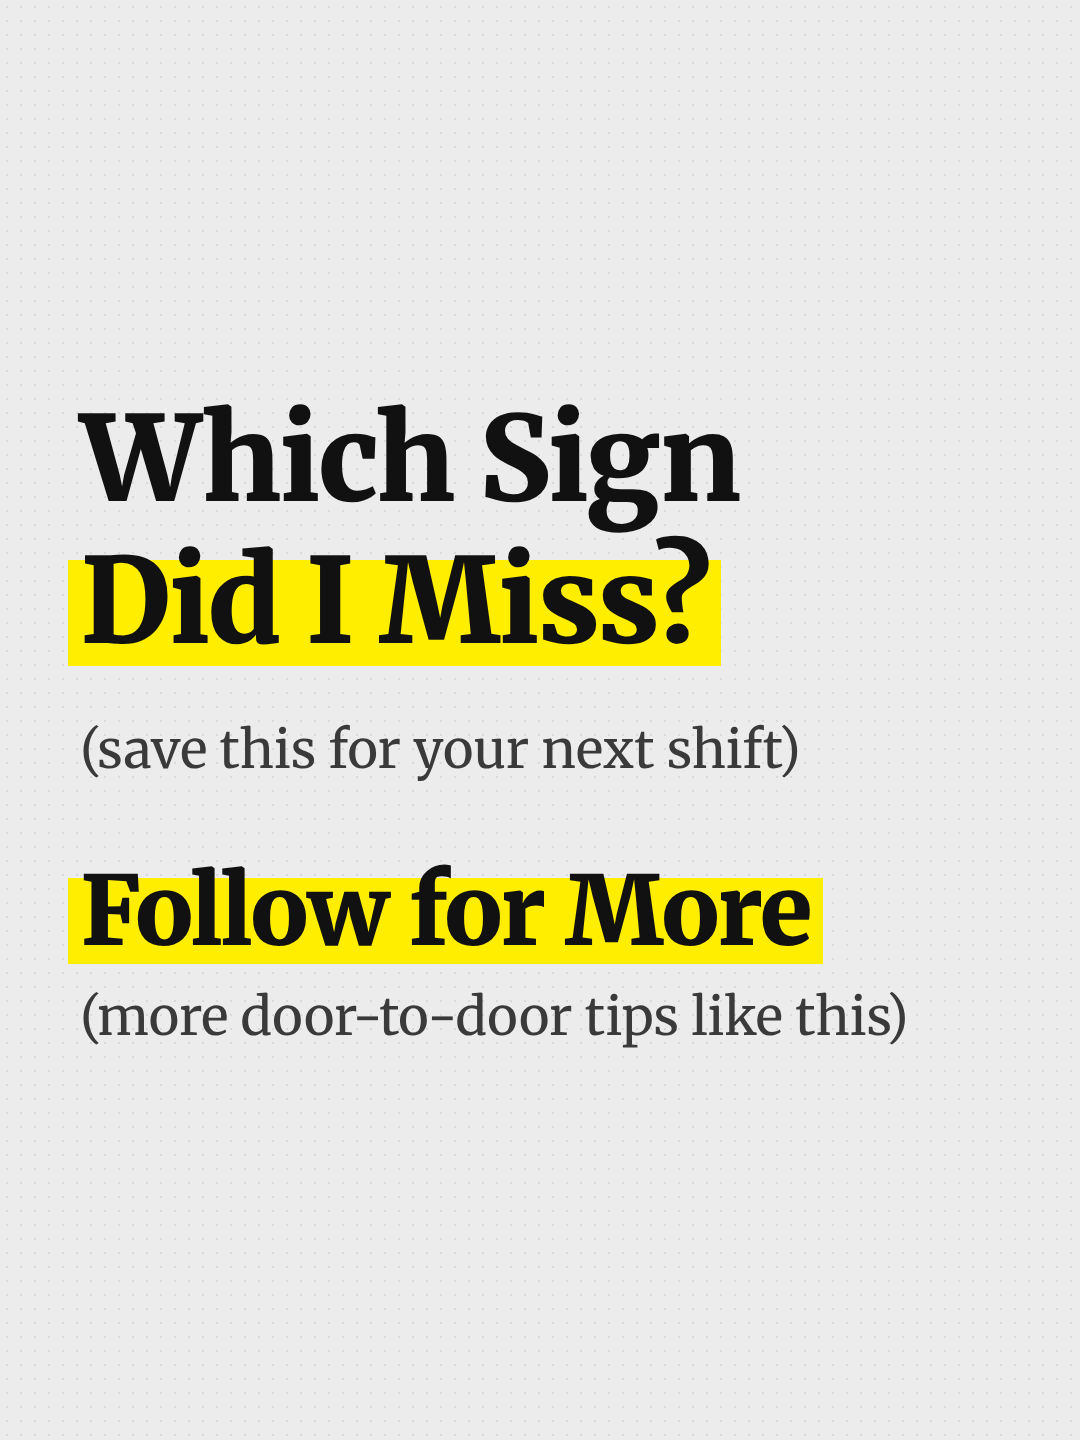
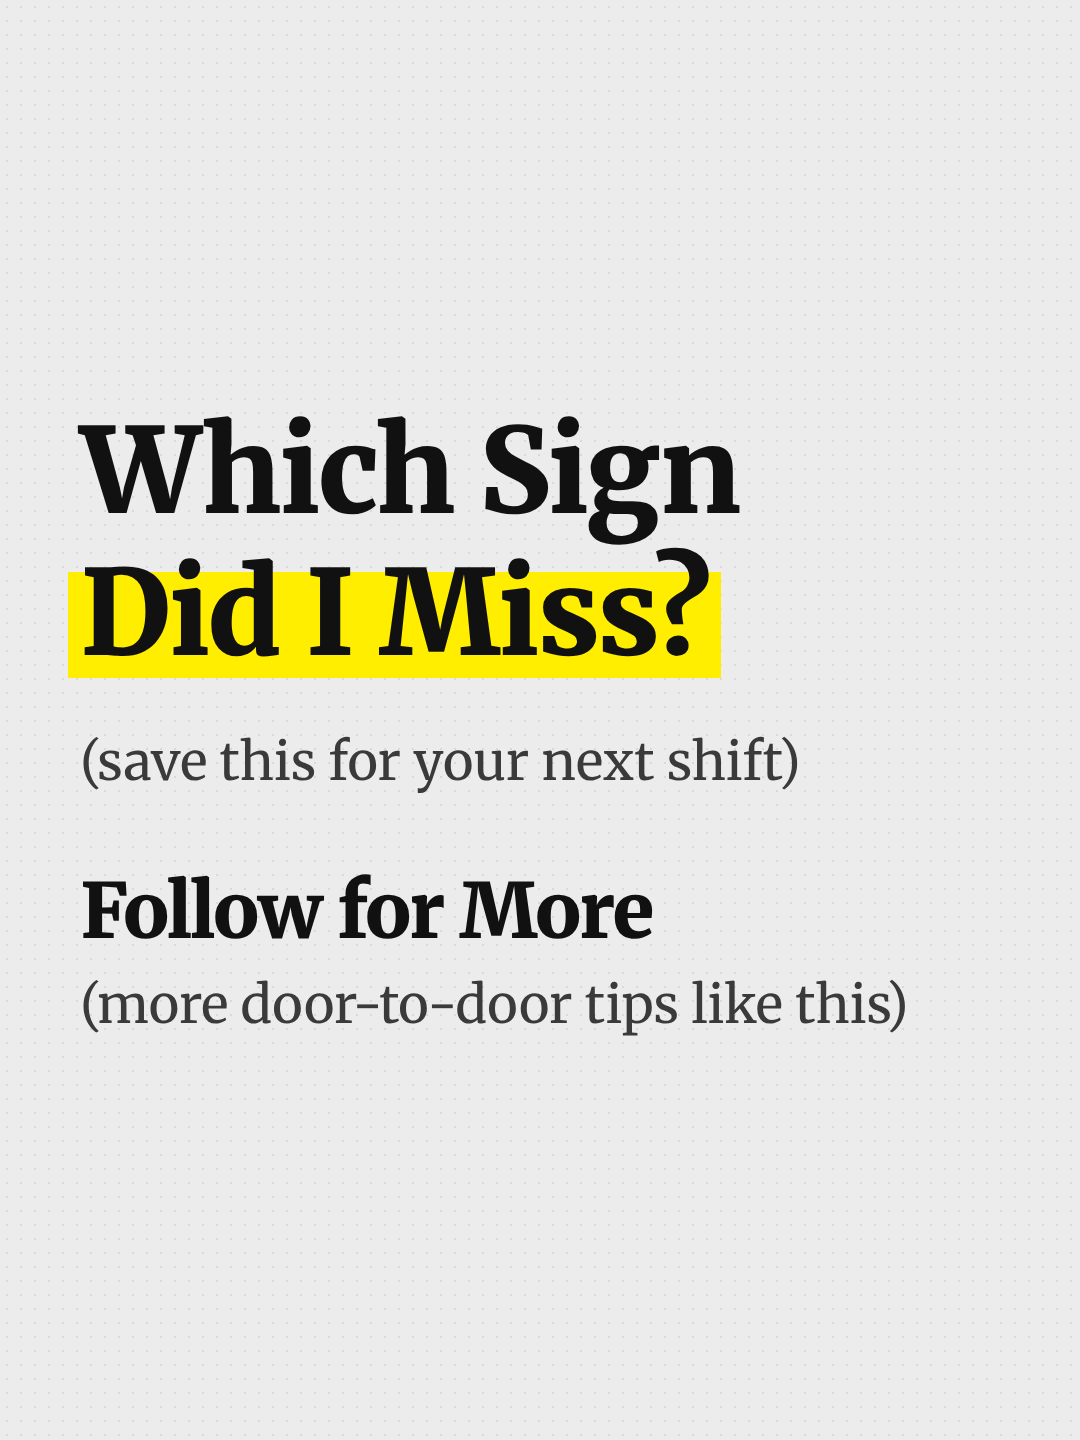
signs slideshow: plain, smaller Follow for More
Claude-Session: https://claude.ai/code/session_01EVxDagMumu1dzbEEzpRUBn

Changed region(s): [[0.0611, 0.2812, 0.7028, 0.4688], [0.0611, 0.5938, 0.8556, 0.7188], [0.0611, 0.5, 0.7333, 0.5625]]

diff --git a/video_research/content_kit/edits/signs_slides/close.html b/video_research/content_kit/edits/signs_slides/close.html
@@ -13,7 +13,7 @@ html,body{margin:0;width:1080px;height:1440px;overflow:hidden;font-family:MW;col
 </style></head><body><div class="w">
 <div class="h">Which Sign<br><span class="y">Did I Miss?</span></div>
 <div class="s">(save this for your next shift)</div>
-<div class="h" style="font-size:96px;margin-top:70px"><span class="y">Follow for More</span></div>
+<div class="h" style="font-size:76px;margin-top:70px">Follow for More</div>
 <div class="s" style="margin-top:14px">(more door-to-door tips like this)</div>
 </div><div class="hd" id="hd"></div>
 <script>const Q=new URLSearchParams(location.search); if(Q.get('handle')) document.getElementById('hd').textContent=Q.get('handle');</script>
